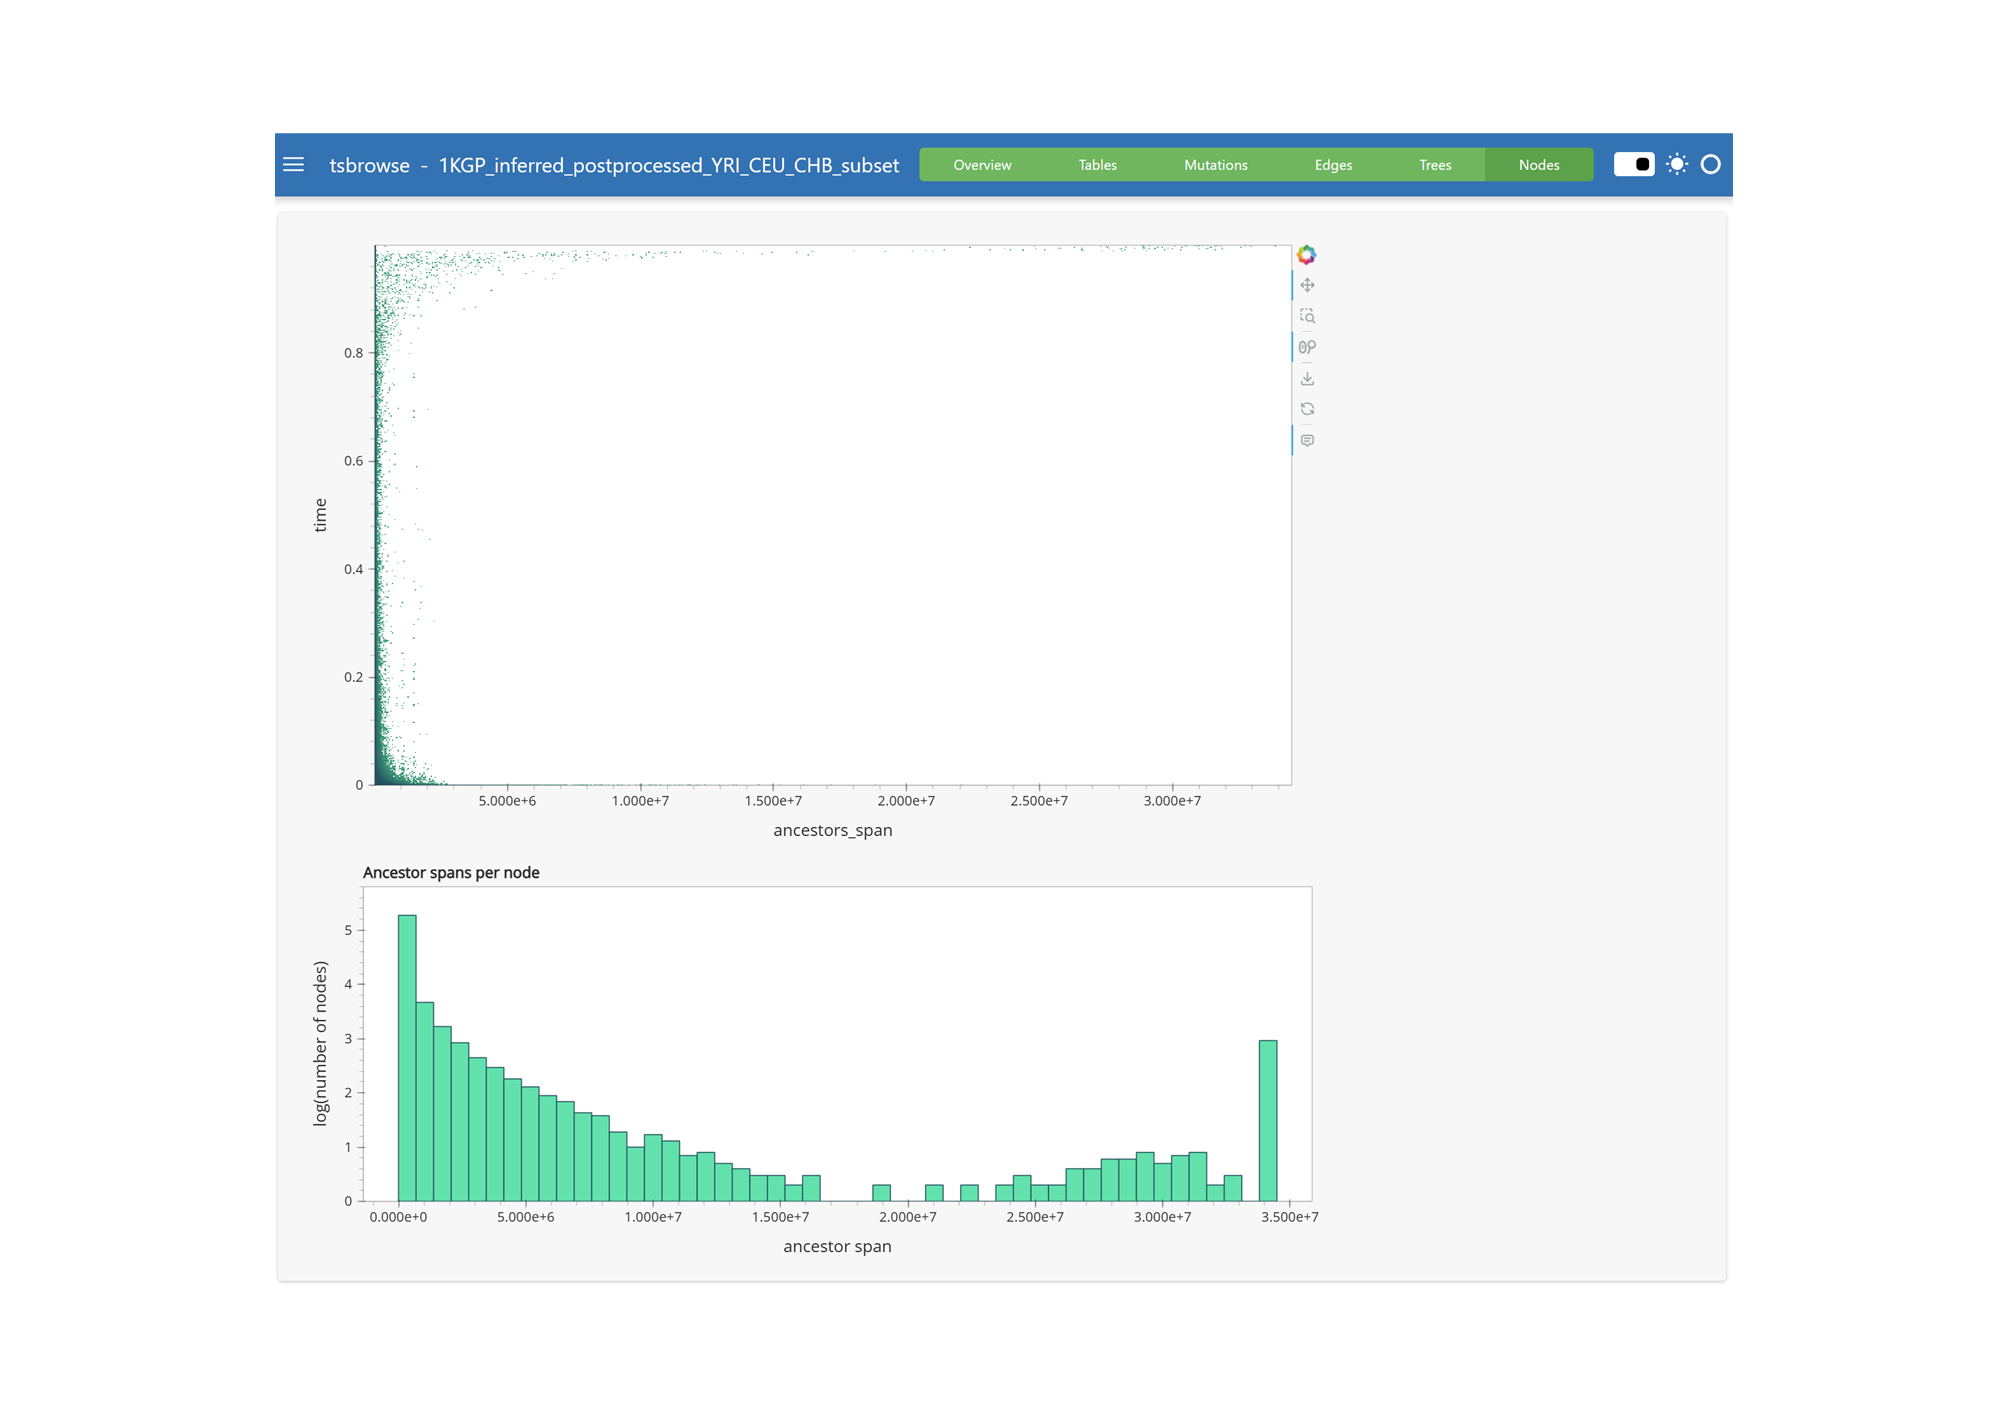
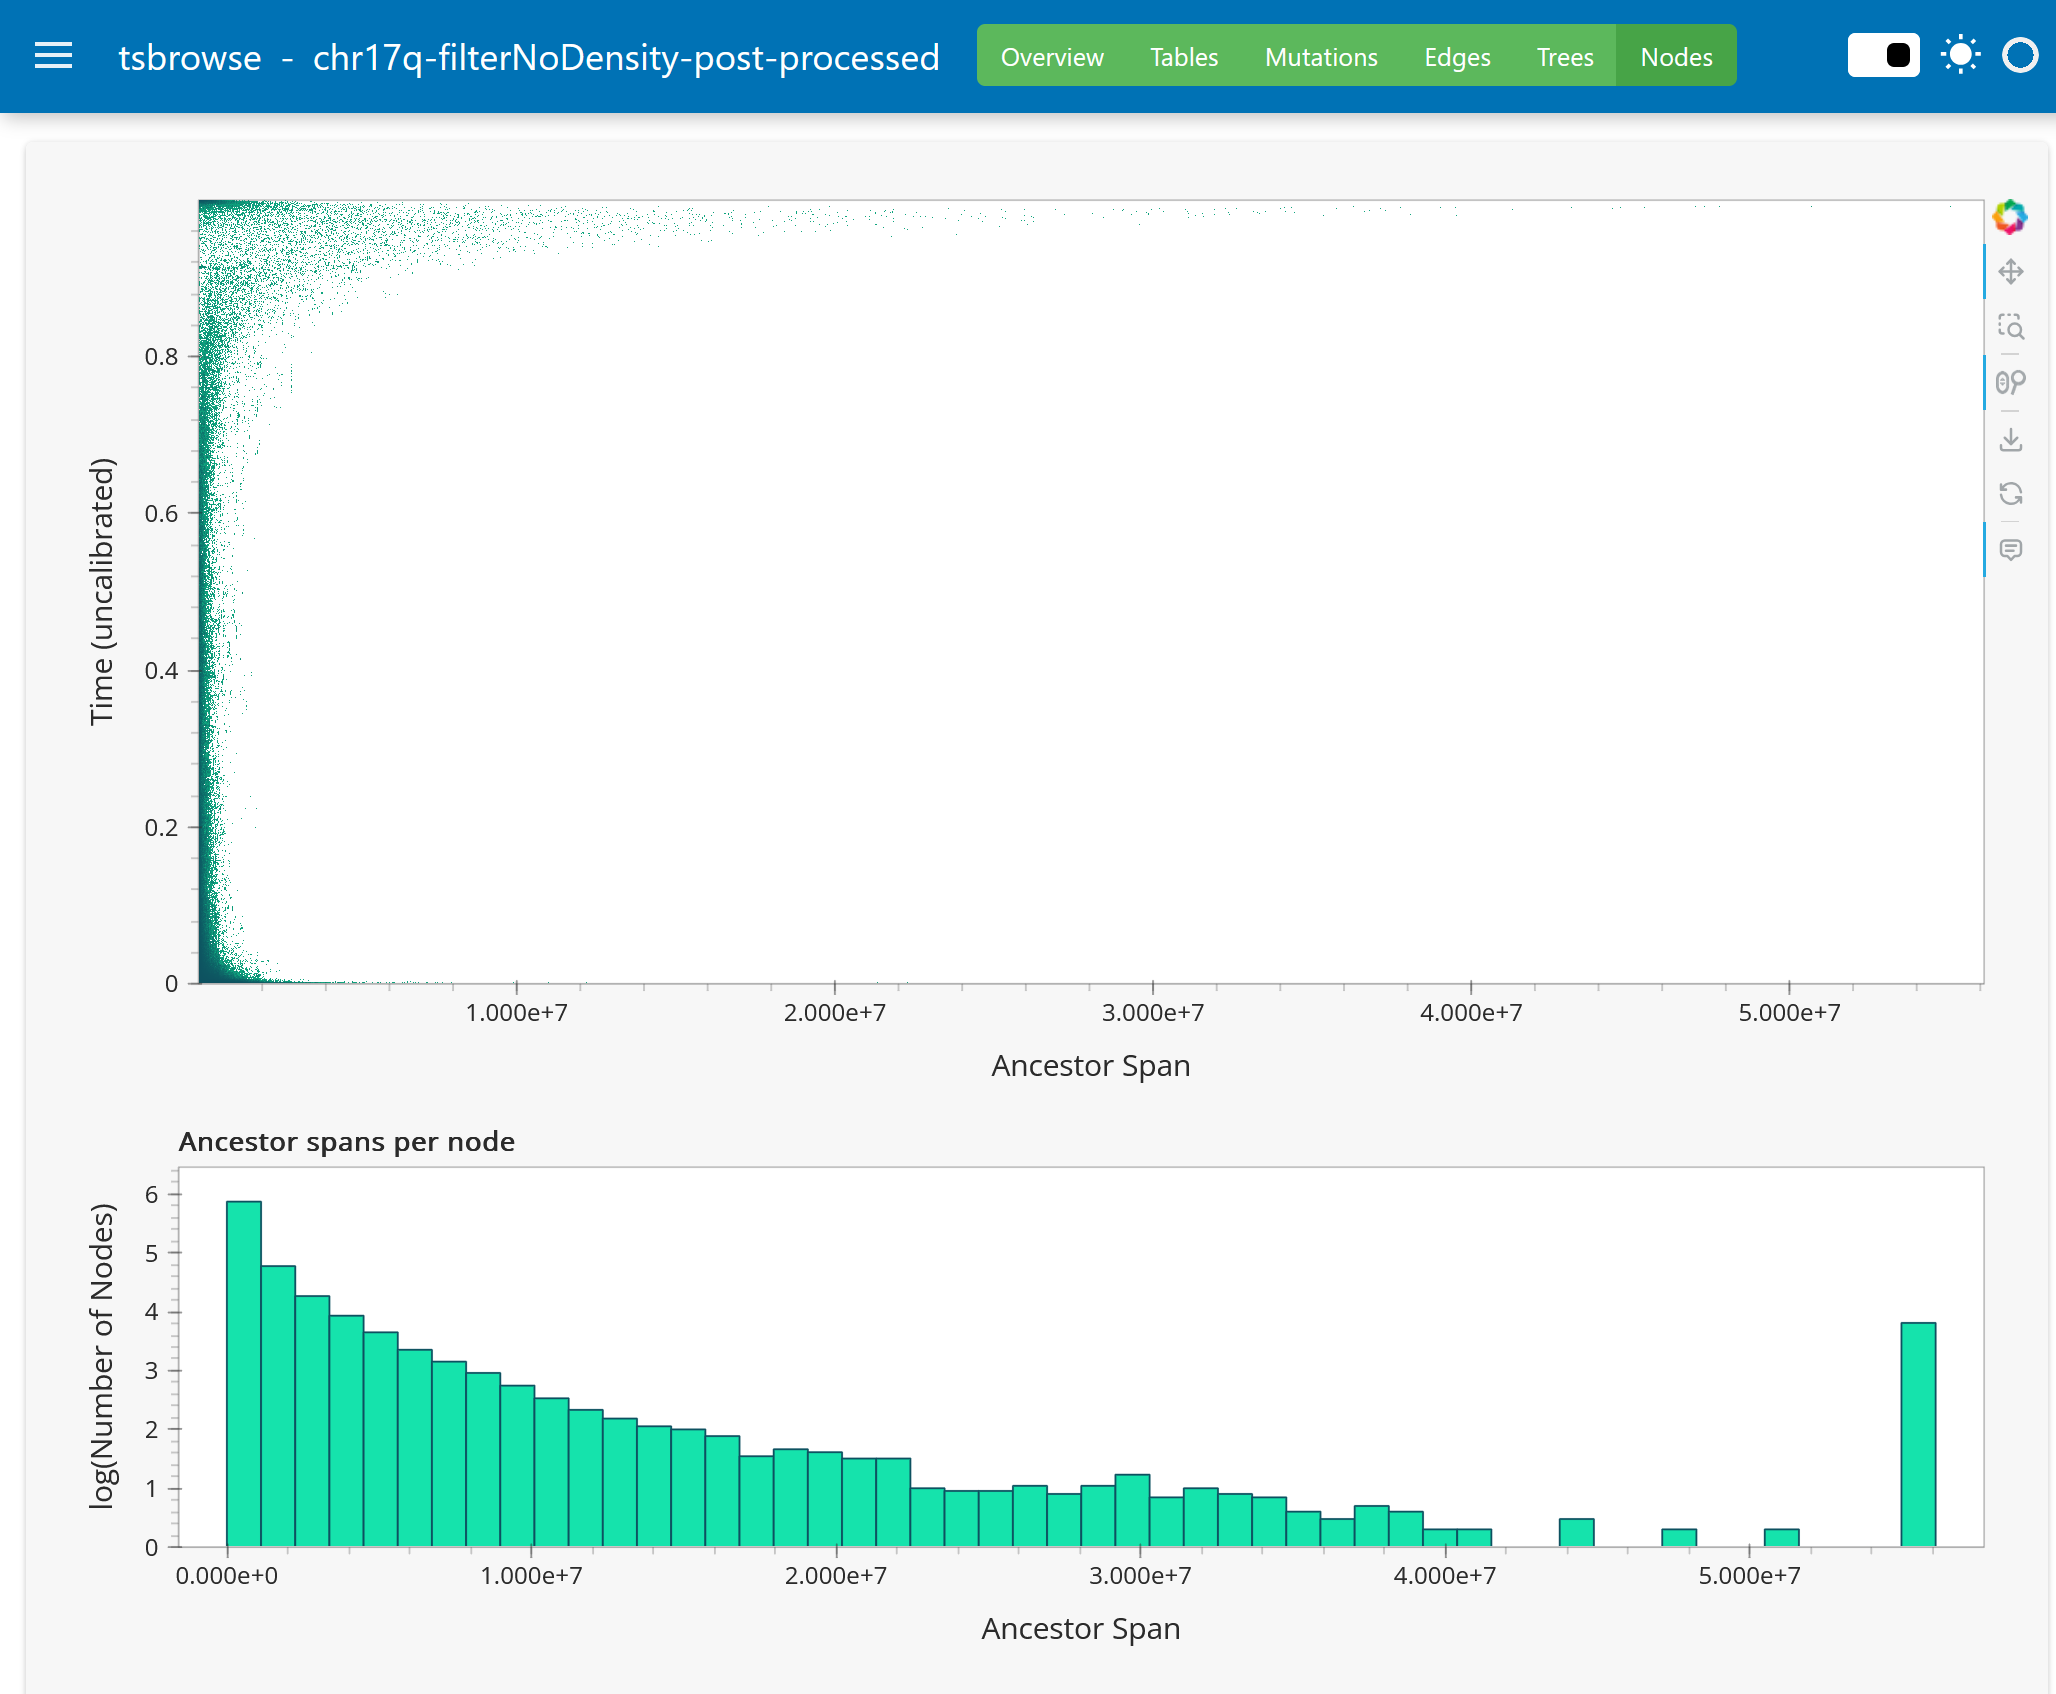
Change SuppFig 3 to use chr17 dataset

diff --git a/manuscript/paper.tex b/manuscript/paper.tex
@@ -532,19 +532,16 @@ methods, the following parameters of inference were used: \textit{recombination
 \ref{fig:Supplementary_Figure_2}, Suppl. Fig.
 \ref{fig:Supplementary_Figure_3})} The 1000 Genomes dataset was downloaded from
 \texttt{\url{https://ftp.1000genomes.ebi.ac.uk/vol1/ftp/data_collections/1000G_2504_high_coverage/working/20220422_3202_phased_SNV_INDEL_SV/}}.
-Ancestral fasta sequences for chromosomes 17 and 20 (GRCh38) were downloaded
+The ancestral fasta sequence for chromosome 17 (GRCh38) was downloaded
 from the Ensembl database. Inference was performed with a Snakemake pipeline
 (\texttt{\url{https://github.com/benjeffery/tsinfer-snakemake/}}) using
-\texttt{tsinfer version 0.3.3} for the long arms of chromosome 17 and 20 after
+\texttt{tsinfer version 0.3.3} for the long arm of chromosome 17 after
 filtering out duplicate variant positions, variants with missing or low quality
 ancestral allele, singletons, n-1-tons and n-2-tons. Only bi-allelic SNPs were
-included for inference. For the inference in Suppl. Fig.
-\ref{fig:Supplementary_Figure_2}, all genomic regions were included. For the
-inference in Suppl. Fig. \ref{fig:Supplementary_Figure_3}, genomic regions with
-a site density lesser than 5 per kb were discarded. For Suppl. Fig.
-\ref{fig:Supplementary_Figure_2}, \texttt{tsdate version 0.2.1} was used to
-estimate the age of ancestral nodes with \textit{mutation rate = 1.29e-8},
-setting all other parameters to default values. 
+included for inference. For Suppl. Fig. \ref{fig:Supplementary_Figure_2}, 
+\texttt{tsdate version 0.2.1} was used to estimate the age of ancestral nodes
+ with \textit{mutation rate = 1.29e-8}, setting all other parameters to default 
+ values. 
 
 \subsection{Inference of SARS-CoV-2 ARGs}
 The ARG shown in Fig \ref{fig:Supplementary_Figure_4} was inferred with
@@ -622,7 +619,7 @@ Screenshots of \texttt{tsbrowse}'s Mutations view (A) and Edges view (B) for a
     \includegraphics[width=0.95\linewidth]{figures/SuppFig3.png}
     \caption{\textbf{A view of the Nodes page for a 1000 Genomes inference.} A
         screenshot of \texttt{tsbrowse}'s Nodes view for an inference of the long arm
-        of chromosome 20 from the 1000 Genomes whole-genome sequencing dataset. At the
+        of chromosome 17 from the 1000 Genomes whole-genome sequencing dataset. At the
         top is a plot of node spans over time. The length of sequence that the nodes
         span is shown on the X axis, and the time of nodes is shown on the Y axis. The
         histogram at the bottom shows the distribution of node spans. }
